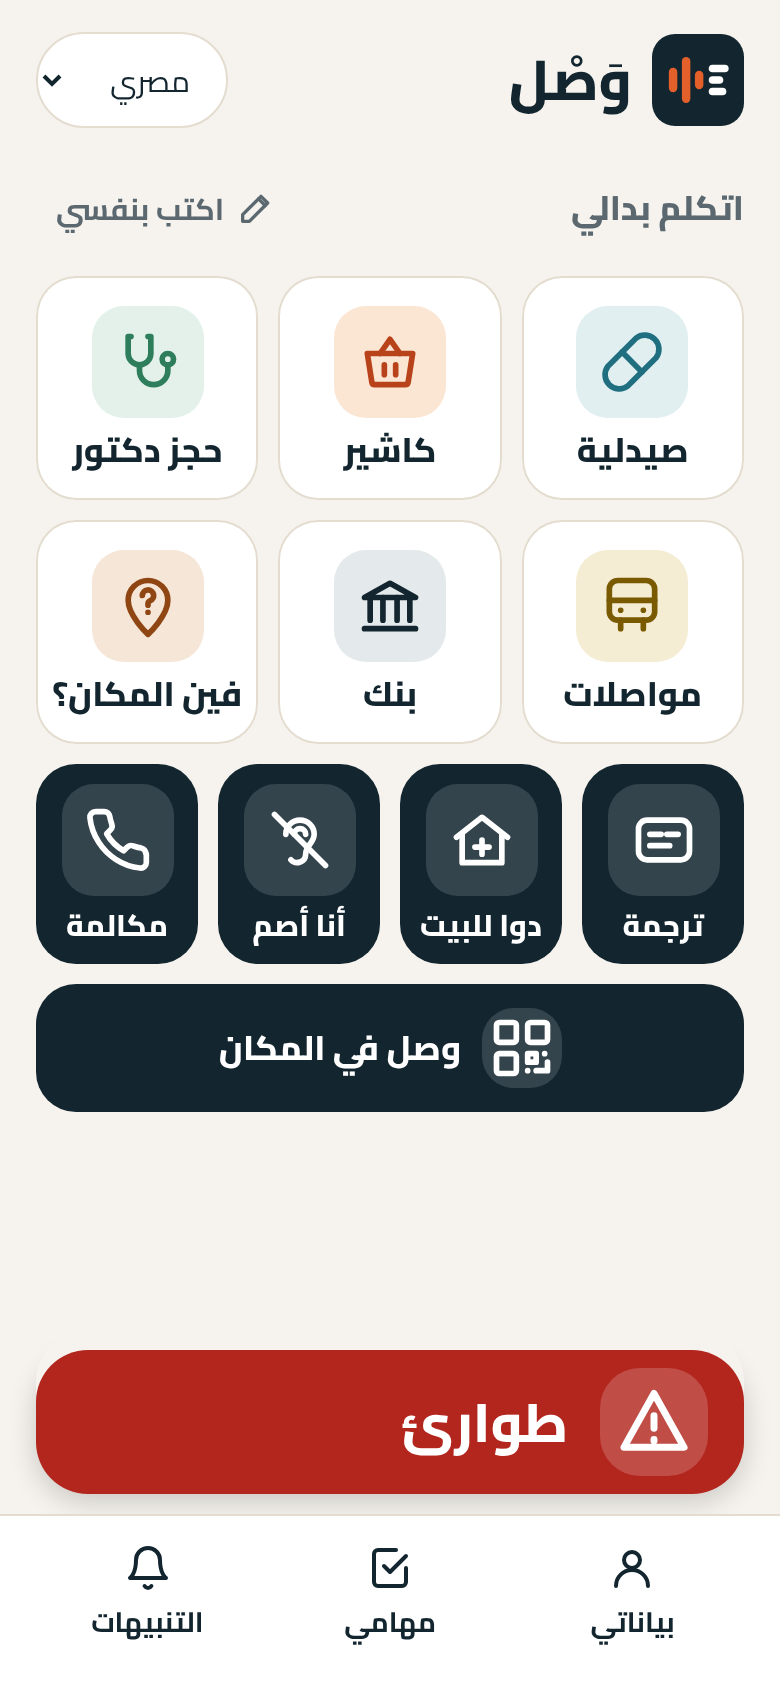
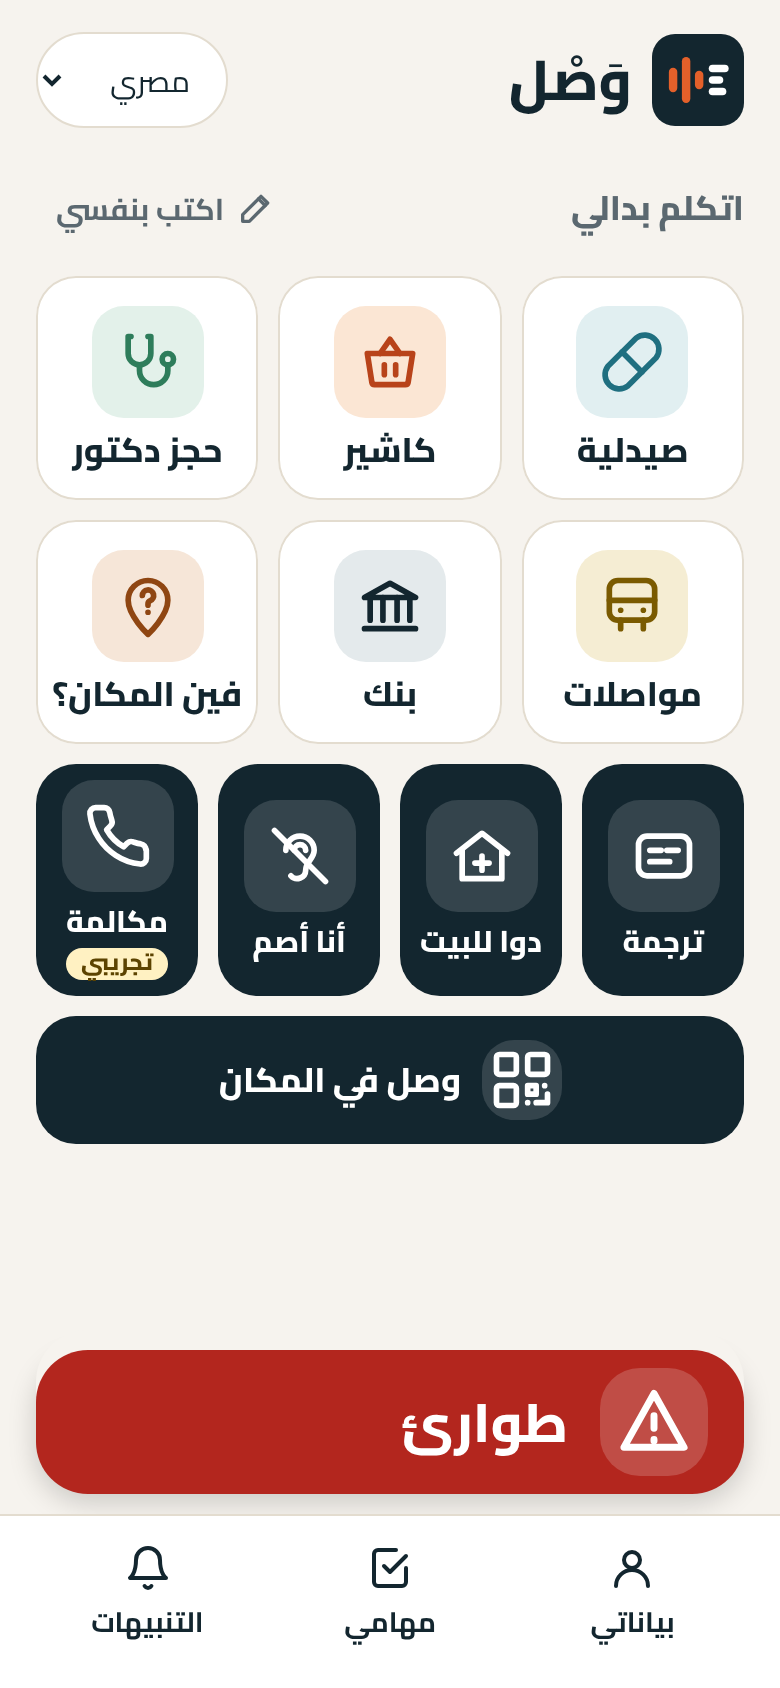
README for the judges: fresh screenshots (call tile with «تجريبي», errand summary at the counter) and the errand summary in the counter row
- docs/screens/home.png: current home in picture mode (call tile tagged «تجريبي», emergency button above the bottom bar)
- docs/screens/counter-summary.png: «ملخص المصلحة» at the end of the counter demo (request, price, done), replaces the chat shot
- Removed counter-chat.png and counter-qr.png (no longer used anywhere)
- README: the counter row mentions the on-phone summary; the screenshot table shows it with a one-line caption
- No app page changed, so the service worker cache stays

Claude-Session: https://claude.ai/code/session_01AzLc5J9XuS3KaSfPwy26rh

Changed region(s): [[0.0308, 0.4621, 0.9538, 0.6777]]

diff --git a/README.md b/README.md
@@ -22,7 +22,7 @@
 | 💊 **وجهاً لوجه** | بتقول عايز إيه (كتابة أو صورة أو تصوير الروشتة)، ووَصْل يتكلم مع اللي قدامك بأدب. كلامه بيظهرلك مكتوب ومعاه كروت (السعر، موجود ولا لأ، الجرعة). |
 | ⚠ **الأمان** | بيراجع الحساسية من الأدوية قبل أي حاجة. وأي قرار فيه فلوس أو صحة بيرجعلك إنت بأزرار واضحة. |
 | 💬 **دوا على واتساب** | بيكتب طلب الدوا للصيدلية من واتساب بتاعك، وبيحوّل رد الصيدلية الصوتي لكلام مكتوب. |
-| 🔳 **وصل في المكان** | كل فرع فيه **ستيكرين**: ستيكر للعميل وستيكر لموبايل الفرع. العميل الأصم يعمل سكان، ويختار طلبه بالصور (فاتورة كهربا، شحن رصيد، معايا روشتة...). موبايل الفرع **بيرن ويفتح المحادثة لوحده**، والموظف يتكلم بصوته أو يكتب، وكلامه بيظهر للعميل بخط كبير. ولو الموظف معندوش موبايل، يتكلموا على موبايل العميل. وفي الآخر العميل يجاوب «مصلحتك خلصت؟». |
+| 🔳 **وصل في المكان** | كل فرع فيه **ستيكرين**: ستيكر للعميل وستيكر لموبايل الفرع. العميل الأصم يعمل سكان، ويختار طلبه بالصور (فاتورة كهربا، شحن رصيد، معايا روشتة...). موبايل الفرع **بيرن ويفتح المحادثة لوحده**، والموظف يتكلم بصوته أو يكتب، وكلامه بيظهر للعميل بخط كبير. ولو الموظف معندوش موبايل، يتكلموا على موبايل العميل. وفي الآخر العميل يجاوب «مصلحتك خلصت؟»، ويظهرله **ملخص المصلحة**: طلبه والأرقام اللي الموظف قالها (زي السعر)، على موبايله بس. |
 | 📞 **مكالمة (تجريبي)** | وَصْل يتصل بدالك ويقول اللي إنت عايزه، وإنت بتقرا المكالمة مكتوبة. المكالمات دلوقتي تجريبية ومش مفتوحة للناس، والتشغيل الكامل هيبقى بالشراكة مع شركة اتصالات زي فودافون. |
 | 🚨 **طوارئ** | صفارة وكشاف عشان اللي حواليك ياخدوا بالهم، ومكانك بيتبعت لأهلك، وكلام جاهز للإسعاف والشرطة. |
 | 🔔 **تنبيهات الأصوات** | الموبايل يهتز لما يسمع جرس الباب أو بكا طفل أو إنذار حريق. |
@@ -30,10 +30,10 @@
 
 ## صور
 
-| الرئيسية (وضع الصور) | في الصيدلية | وصل في المكان | طوارئ |
+| الرئيسية (وضع الصور) | في الصيدلية | وصل في المكان: ملخص المصلحة | طوارئ |
 |---|---|---|---|
-| <img src="docs/screens/home.png" width="200" alt="الشاشة الرئيسية بأيقونات كبيرة"> | <img src="docs/screens/pharmacy.png" width="200" alt="وصل بيسأل المستخدم قبل ما ياخد دوا فيه بنسلين"> | <img src="docs/screens/counter-chat.png" width="200" alt="محادثة مع موظف الصيدلية"> | <img src="docs/screens/sos.png" width="200" alt="شاشة الطوارئ"> |
-| | الكلام اللي فوق مقلوب عشان الصيدلي يقراه من الناحية التانية. | | |
+| <img src="docs/screens/home.png" width="200" alt="الشاشة الرئيسية بأيقونات كبيرة"> | <img src="docs/screens/pharmacy.png" width="200" alt="وصل بيسأل المستخدم قبل ما ياخد دوا فيه بنسلين"> | <img src="docs/screens/counter-summary.png" width="200" alt="ملخص المصلحة: الطلب والسعر وإن المصلحة خلصت"> | <img src="docs/screens/sos.png" width="200" alt="شاشة الطوارئ"> |
+| | الكلام اللي فوق مقلوب عشان الصيدلي يقراه من الناحية التانية. | الطلب والسعر، وإن المصلحة خلصت. على موبايل العميل بس. | |
 
 ## جرّب العرض في دقيقة
 1. افتح https://wasl.nrg-egypt.com/?demo على الموبايل.
